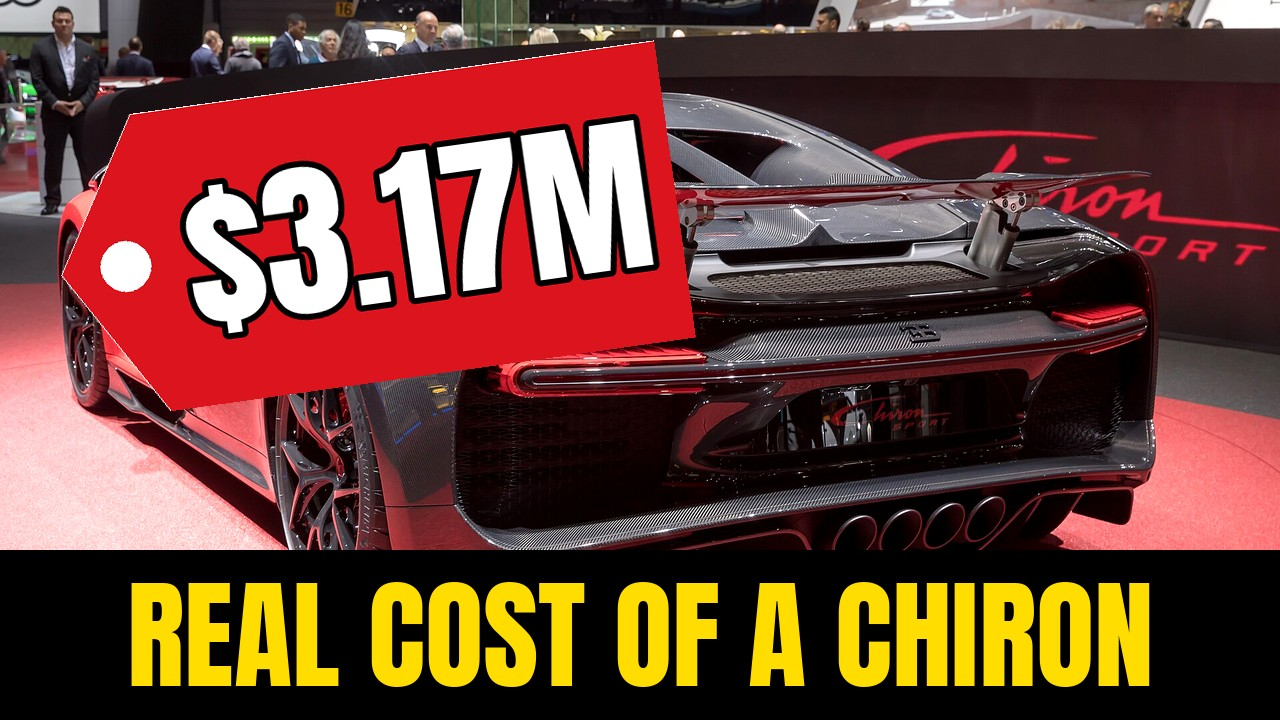
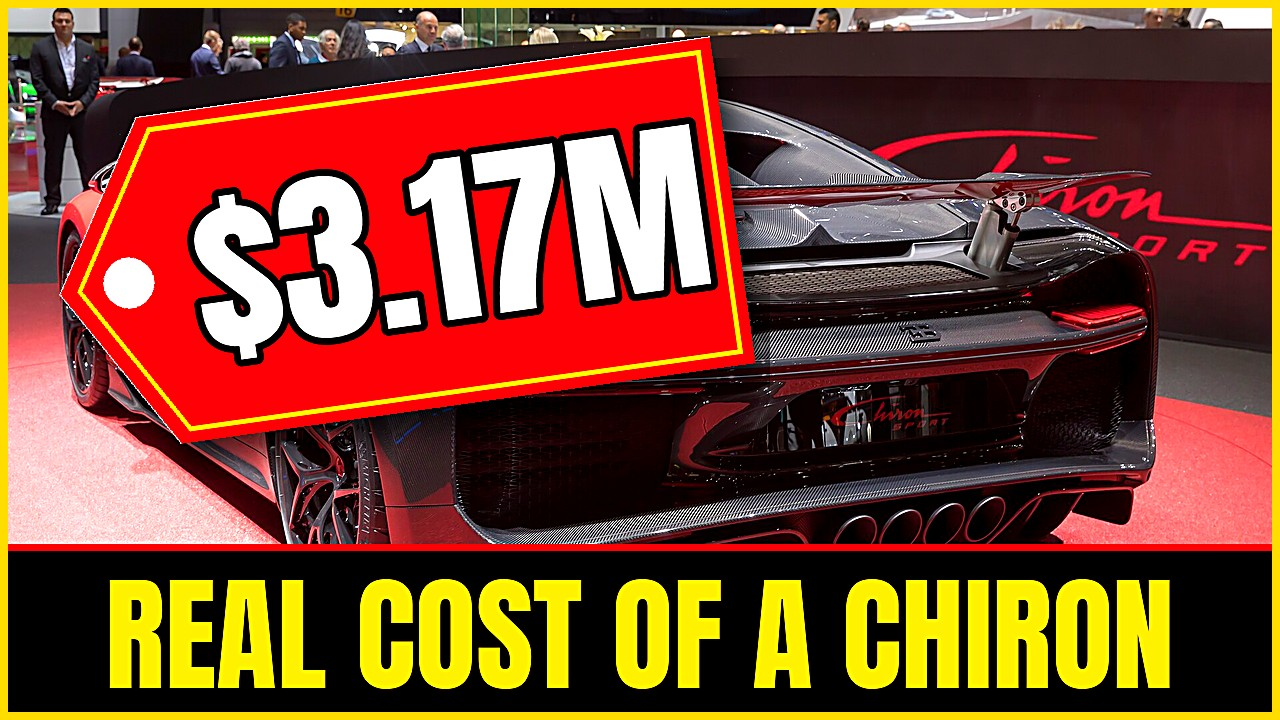
Phase 2: punchier thumbnails (colour grade, glow, slanted split, red plates) regenerated for 61-68
Claude-Session: https://claude.ai/code/session_01CDBWLBQDBUL1ThwzjufMwp

diff --git a/pipeline/thumb_phase2.py b/pipeline/thumb_phase2.py
@@ -44,6 +44,28 @@ def text(d, xy, s, size, fill=YEL, anchor="la", stroke=8):
     return f
 
 
+def glow(im, xy, s, size, color=YEL, anchor="la", radius=18):
+    # soft coloured halo under the text so it pops on busy photos
+    f = ImageFont.truetype(FONT, size)
+    layer = Image.new("RGB", im.size, BLK)
+    ImageDraw.Draw(layer).text(xy, s, font=f, fill=color, anchor=anchor, stroke_width=14)
+    layer = layer.filter(ImageFilter.GaussianBlur(radius))
+    return Image.blend(im, Image.composite(layer, im, layer.convert("L").point(lambda v: min(255, v * 2))), 0.55)
+
+
+def finish(im):
+    # punchy grade: more colour and contrast, sharper, dark vignette, thin yellow frame
+    im = ImageEnhance.Color(im).enhance(1.3)
+    im = ImageEnhance.Contrast(im).enhance(1.12)
+    im = im.filter(ImageFilter.UnsharpMask(radius=2, percent=70, threshold=3))
+    v = Image.new("L", (W, H), 0)
+    ImageDraw.Draw(v).ellipse([-W * 0.25, -H * 0.35, W * 1.25, H * 1.35], fill=255)
+    v = v.filter(ImageFilter.GaussianBlur(120))
+    im = Image.composite(im, ImageEnhance.Brightness(im).enhance(0.45), v)
+    ImageDraw.Draw(im).rectangle([0, 0, W - 1, H - 1], outline=YEL, width=8)
+    return im
+
+
 def fit_size(s, max_w, size):
     while size > 30 and ImageFont.truetype(FONT, size).getlength(s) > max_w:
         size -= 4
@@ -59,76 +81,90 @@ def scene_for(sj, words):
 
 def layout_a(n, sj, model):
     im = fit(photo(n, 0), W, H)
-    im = ImageEnhance.Contrast(im).enhance(1.15)
-    d = ImageDraw.Draw(im)
-    # dark left gradient so the "2" pops
     g = Image.new("L", (W, H))
     gd = ImageDraw.Draw(g)
-    for x in range(W // 2):
-        gd.line([(x, 0), (x, H)], fill=int(200 * (1 - x / (W / 2))))
+    for x in range(int(W * 0.62)):
+        gd.line([(x, 0), (x, H)], fill=int(235 * (1 - x / (W * 0.62))))
     im.paste(Image.new("RGB", (W, H), BLK), (0, 0), g)
+    im = glow(im, (30, 340), "2", 600, YEL, "lm", 28)
     d = ImageDraw.Draw(im)
-    text(d, (40, 360), "2", 560, YEL, "lm", 12)
-    text(d, (350, 230), "THINGS YOU", fit_size("THINGS YOU", 520, 120), WHT, "lm")
-    text(d, (350, 360), "DIDN'T KNOW", fit_size("DIDN'T KNOW", 560, 120), WHT, "lm")
+    text(d, (30, 340), "2", 600, YEL, "lm", 14)
+    text(d, (355, 200), "THINGS YOU", fit_size("THINGS YOU", 560, 130), WHT, "lm", 9)
+    text(d, (355, 340), "DIDN'T KNOW", fit_size("DIDN'T KNOW", 620, 130), WHT, "lm", 9)
+    # red plate with the model
     name = short(model)
-    text(d, (W - 40, H - 40), name, fit_size(name, 700, 130), YEL, "rd")
+    fs = fit_size(name, 640, 120)
+    plate_w = int(ImageFont.truetype(FONT, fs).getlength(name)) + 90
+    d.polygon([(W - plate_w - 40, H - 190), (W - 20, H - 210), (W - 20, H - 40), (W - plate_w - 60, H - 20)], fill=RED, outline=WHT)
+    text(d, (W - 20 - plate_w // 2 - 10, H - 115), name, fs, WHT, "mm", 6)
     return im
 
 
 def layout_b(n, sj, model, rival):
-    left = fit(photo(n, scene_for(sj, [model])), W // 2, H)
-    right = fit(photo(n, scene_for(sj, [rival.split()[-1], rival])), W // 2, H)
+    left = fit(photo(n, scene_for(sj, [model])), W // 2 + 60, H)
+    right = fit(photo(n, scene_for(sj, [rival.split()[-1], rival])), W // 2 + 60, H)
     im = Image.new("RGB", (W, H))
     im.paste(left, (0, 0))
-    im.paste(right, (W // 2, 0))
+    m = Image.new("L", (W // 2 + 60, H), 0)
+    ImageDraw.Draw(m).polygon([(60, 0), (W // 2 + 60, 0), (W // 2 + 60, H), (0, H)], fill=255)
+    im.paste(right, (W // 2 - 60, 0), m)
     d = ImageDraw.Draw(im)
-    d.rectangle([W // 2 - 6, 0, W // 2 + 6, H], fill=WHT)
+    d.line([(W // 2 + 30, 0), (W // 2 - 30, H)], fill=WHT, width=14)
     d.rectangle([0, H - 150, W, H], fill=BLK)
+    d.rectangle([0, H - 156, W, H - 150], fill=YEL)
     a, b = short(model), short(rival)
-    text(d, (W // 4, H - 75), a, fit_size(a, 560, 110), YEL, "mm", 6)
-    text(d, (3 * W // 4, H - 75), b, fit_size(b, 560, 110), YEL, "mm", 6)
-    d.ellipse([W // 2 - 120, 170, W // 2 + 120, 410], fill=RED, outline=WHT, width=10)
-    text(d, (W // 2, 290), "VS", 150, WHT, "mm", 6)
+    text(d, (W // 4, H - 75), a, fit_size(a, 560, 115), YEL, "mm", 6)
+    text(d, (3 * W // 4, H - 75), b, fit_size(b, 560, 115), YEL, "mm", 6)
+    im = glow(im, (W // 2, 270), "VS", 190, RED, "mm", 22)
+    d = ImageDraw.Draw(im)
+    d.ellipse([W // 2 - 130, 150, W // 2 + 130, 390], fill=RED, outline=WHT, width=12)
+    text(d, (W // 2, 272), "VS", 170, WHT, "mm", 8)
     return im
 
 
 def layout_c(n, sj, model):
     im = fit(photo(n, 0), W, H)
-    im = ImageEnhance.Contrast(im).enhance(1.1)
-    d = ImageDraw.Draw(im)
     price = PRICE.get(n, "$$$")
-    # price tag: rotated red label with a hole
-    tag = Image.new("RGBA", (620, 300), (0, 0, 0, 0))
+    tag = Image.new("RGBA", (680, 330), (0, 0, 0, 0))
     td = ImageDraw.Draw(tag)
-    td.polygon([(90, 0), (620, 0), (620, 300), (90, 300), (0, 150)], fill=RED + (255,), outline=WHT)
-    td.ellipse([40, 125, 90, 175], fill=WHT)
-    f = ImageFont.truetype(FONT, fit_size(price, 470, 210))
-    td.text((360, 150), price, font=f, fill=WHT, anchor="mm", stroke_width=6, stroke_fill=BLK)
+    td.polygon([(100, 0), (680, 0), (680, 330), (100, 330), (0, 165)], fill=RED + (255,), outline=WHT)
+    td.polygon([(110, 12), (668, 12), (668, 318), (110, 318), (18, 165)], outline=YEL, width=5)
+    td.ellipse([45, 138, 95, 188], fill=WHT)
+    f = ImageFont.truetype(FONT, fit_size(price, 520, 240))
+    td.text((395, 165), price, font=f, fill=WHT, anchor="mm", stroke_width=7, stroke_fill=BLK)
     tag = tag.rotate(8, expand=True, resample=Image.BICUBIC)
-    im.paste(tag, (40, 40), tag)
+    shadow = Image.new("RGBA", tag.size, (0, 0, 0, 0))
+    shadow.paste(Image.new("RGBA", tag.size, (0, 0, 0, 170)), (0, 0), tag)
+    shadow = shadow.filter(ImageFilter.GaussianBlur(14))
+    im.paste(shadow, (50, 58), shadow)
+    im.paste(tag, (36, 36), tag)
     d = ImageDraw.Draw(im)
     d.rectangle([0, H - 170, W, H], fill=BLK)
+    d.rectangle([0, H - 176, W, H - 170], fill=RED)
     line = f"REAL COST OF A {short(model)}"
-    text(d, (W // 2, H - 85), line, fit_size(line, 1180, 120), YEL, "mm", 6)
+    text(d, (W // 2, H - 85), line, fit_size(line, 1180, 125), YEL, "mm", 6)
     return im
 
 
 def layout_d(n, sj, model):
-    old = fit(photo(n, 0, 1), W // 2, H)
-    old = ImageOps.colorize(ImageOps.grayscale(old), (40, 25, 10), (240, 220, 180))
-    old = old.filter(ImageFilter.GaussianBlur(0.6))
-    new = fit(photo(n, len(sj["scenes"]) - 1), W // 2, H)
-    new = ImageEnhance.Color(new).enhance(1.3)
+    old = fit(photo(n, 0, 1), W // 2 + 40, H)
+    old = ImageOps.colorize(ImageOps.grayscale(old), (40, 25, 10), (245, 225, 185))
+    new = fit(photo(n, len(sj["scenes"]) - 1), W // 2 + 40, H)
+    new = ImageEnhance.Color(new).enhance(1.35)
     im = Image.new("RGB", (W, H))
     im.paste(old, (0, 0))
-    im.paste(new, (W // 2, 0))
+    m = Image.new("L", (W // 2 + 40, H), 0)
+    ImageDraw.Draw(m).polygon([(50, 0), (W // 2 + 40, 0), (W // 2 + 40, H), (0, H)], fill=255)
+    im.paste(new, (W // 2 - 40, 0), m)
     d = ImageDraw.Draw(im)
-    d.polygon([(W // 2 - 30, 0), (W // 2 + 30, 0), (W // 2 + 30, H), (W // 2 - 30, H)], fill=YEL)
-    d.rectangle([0, 0, W, 160], fill=BLK)
-    text(d, (W // 2, 80), "THE INSANE STORY", fit_size("THE INSANE STORY", 1150, 130), YEL, "mm", 6)
+    d.line([(W // 2 + 25, 0), (W // 2 - 25, H)], fill=YEL, width=16)
+    d.rectangle([0, 0, W, 165], fill=RED)
+    d.rectangle([0, 165, W, 173], fill=YEL)
+    text(d, (W // 2, 84), "THE INSANE STORY", fit_size("THE INSANE STORY", 1150, 140), WHT, "mm", 8)
     name = short(model)
-    text(d, (W // 2, H - 60), name, fit_size(name, 1000, 140), WHT, "mm", 10)
+    d.rectangle([0, H - 150, W, H], fill=BLK)
+    d.rectangle([0, H - 156, W, H - 150], fill=YEL)
+    text(d, (W // 2, H - 75), name, fit_size(name, 1100, 120), YEL, "mm", 6)
     return im
 
 
@@ -138,6 +174,7 @@ def build(n, th):
     a = sj["angle"]
     im = {"A": lambda: layout_a(n, sj, model), "B": lambda: layout_b(n, sj, model, rival),
           "C": lambda: layout_c(n, sj, model), "D": lambda: layout_d(n, sj, model)}[a]()
+    im = finish(im.convert("RGB"))
     out = ROOT / "agendamento/thumbs" / f"video{n}.jpg"
     out.parent.mkdir(parents=True, exist_ok=True)
     im.convert("RGB").save(out, quality=90)
